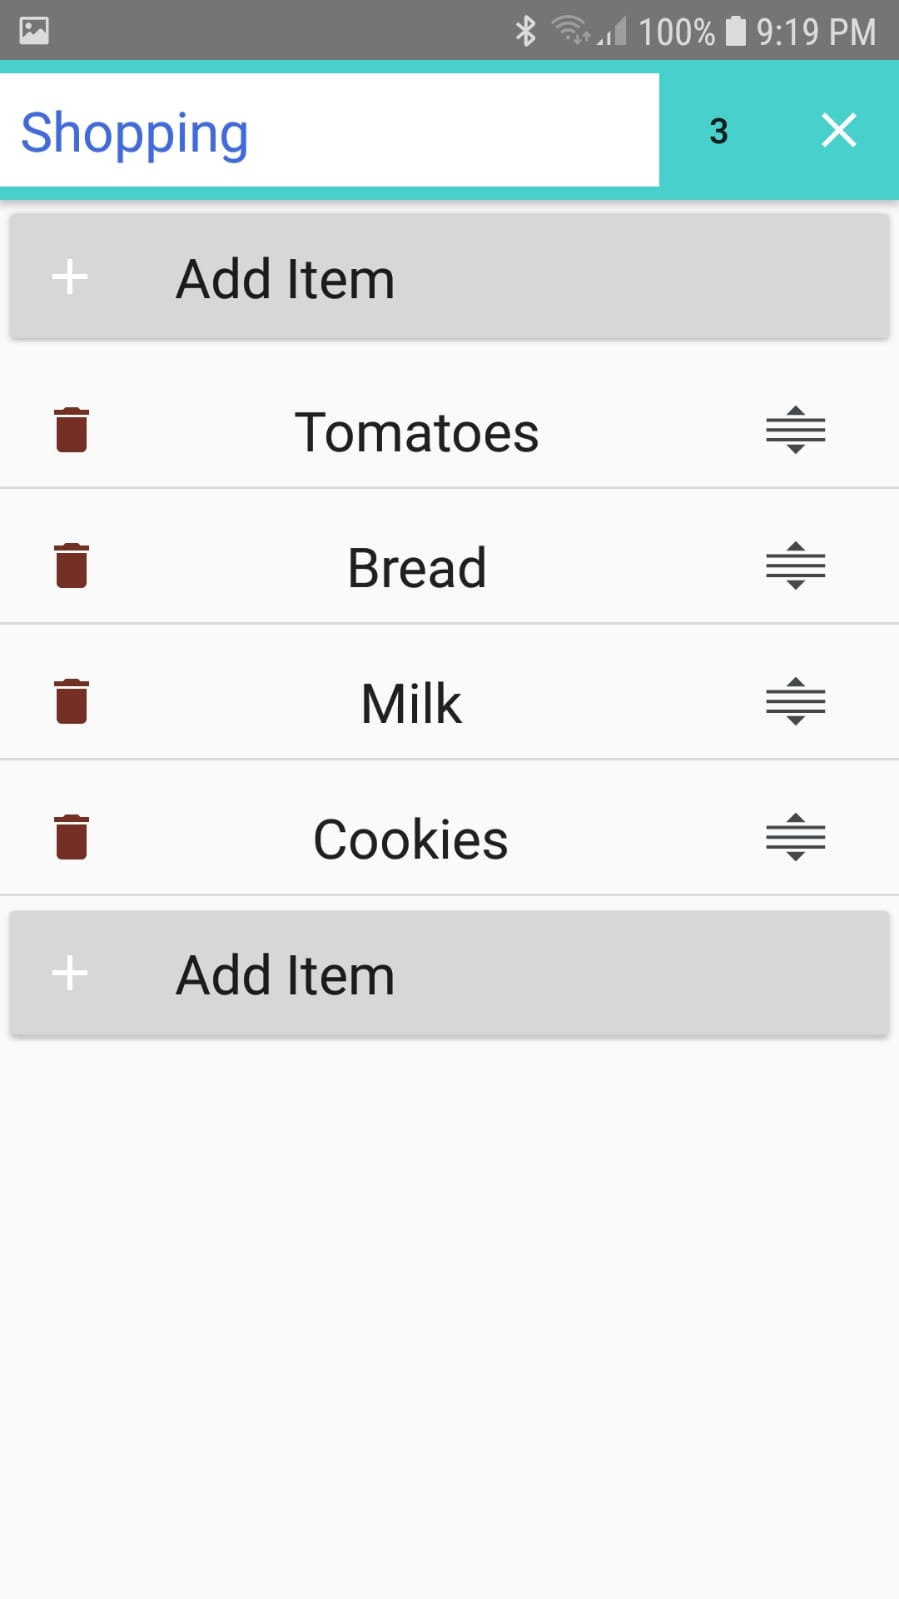
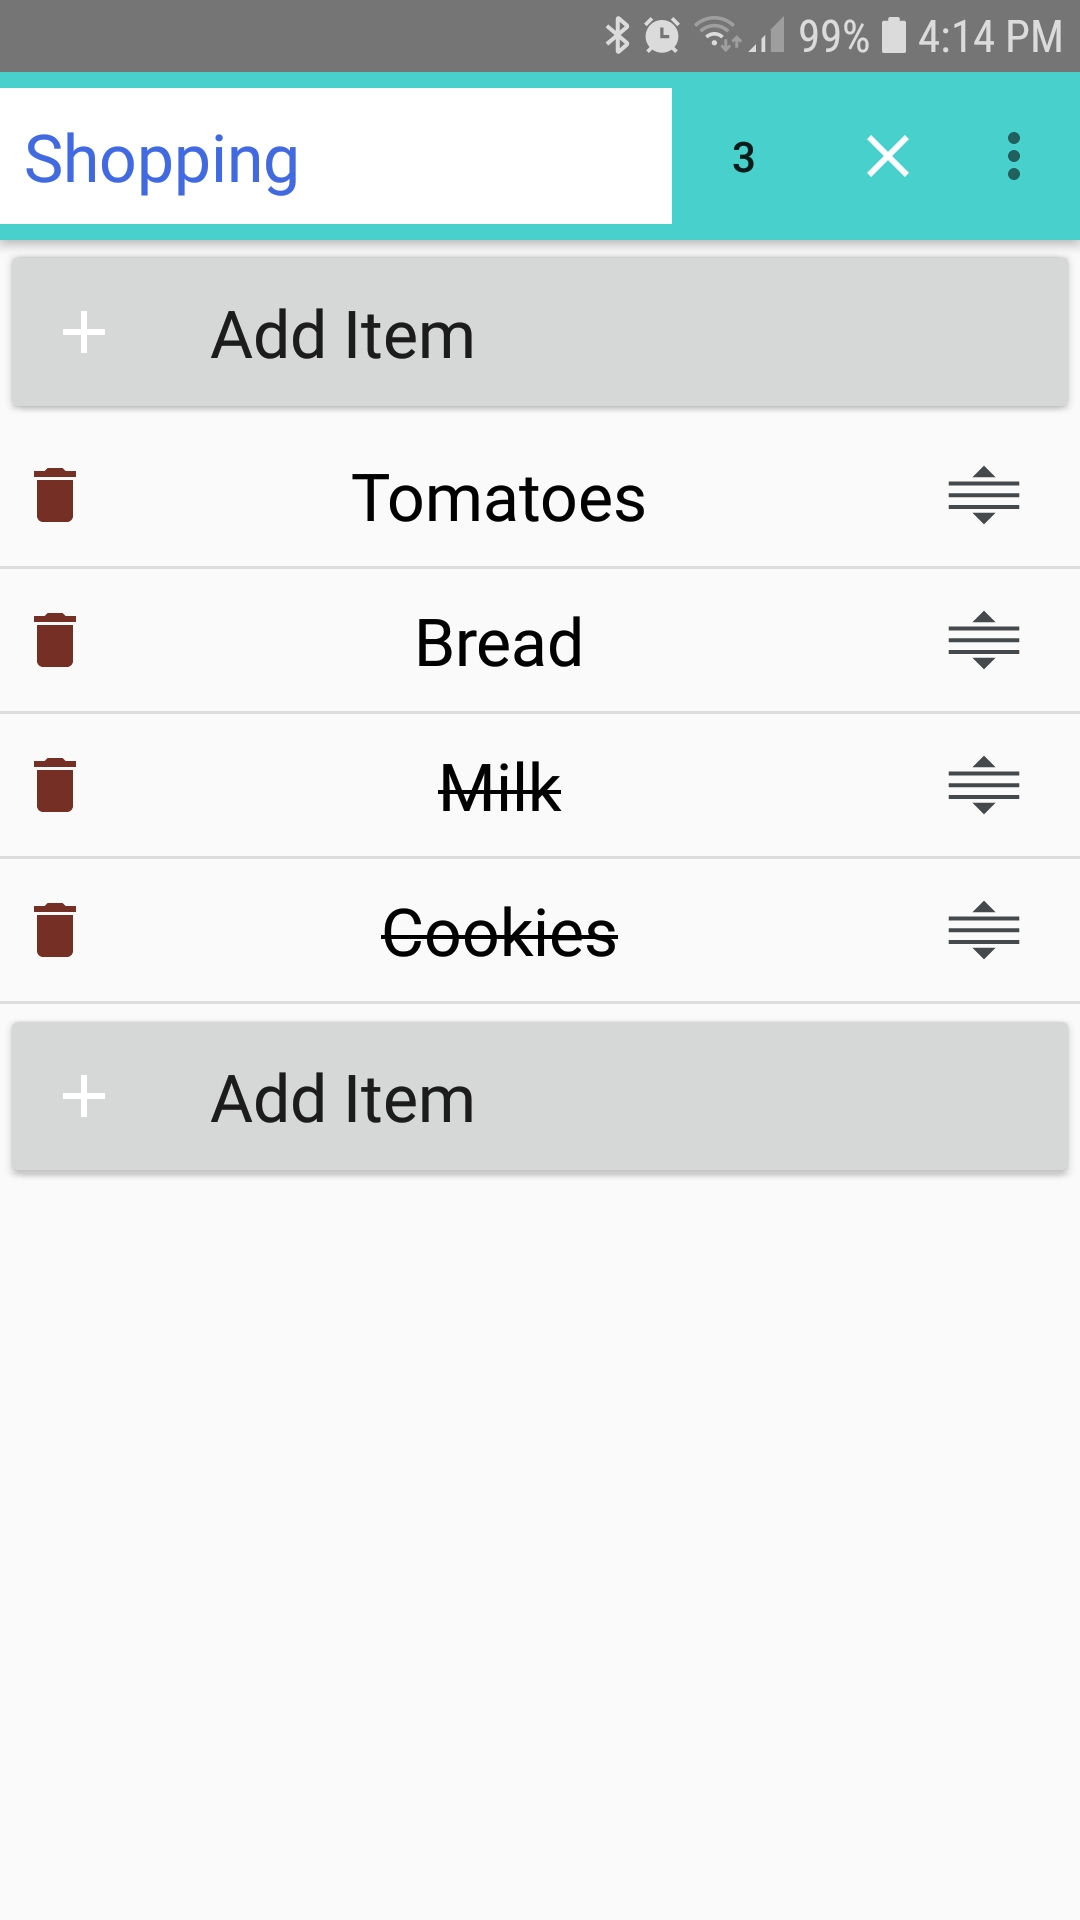
note item DONE (strike through) - 6.01

diff --git a/README.md b/README.md
@@ -12,8 +12,8 @@ where the user can add items while other apps are in foreground (playing a video
 - Dependency Injection with Koin: injecting Repository, NotificationManager and ViewModel.
 - Using Kotlin Coroutines for necessary asynchronous DB operations.
 - Parcelable Note data class, so we can pass it between Activities.
-- TypeConverter for converting List of objects to a String and back.
-- Database ViewModel - mutual data access through all activities.
+- TypeConverter for storing non-primitive object types in Room Database.
+- Database ViewModel - a single data entry point for all activities.
 - ItemTouchHelper callbacks for gesture detection: drag & drop items.
 - Custom Views (AlertDialog) managing their own UI setup and lifecycle.
 - Setting a priority for each note, influences the order in the main list.
@@ -24,6 +24,7 @@ where the user can add items while other apps are in foreground (playing a video
 - RESTORE deleted notes and items, through SnackBar action.
 - REVERT CHANGES menu item, during note editing session.
 - Share notes easily + quick text copy of individual note items.
+- click to ~~Strike Through note items~~ and mark them as DONE.
 - Espresso Instrumentation tests across both activities.
 
 <br/>
